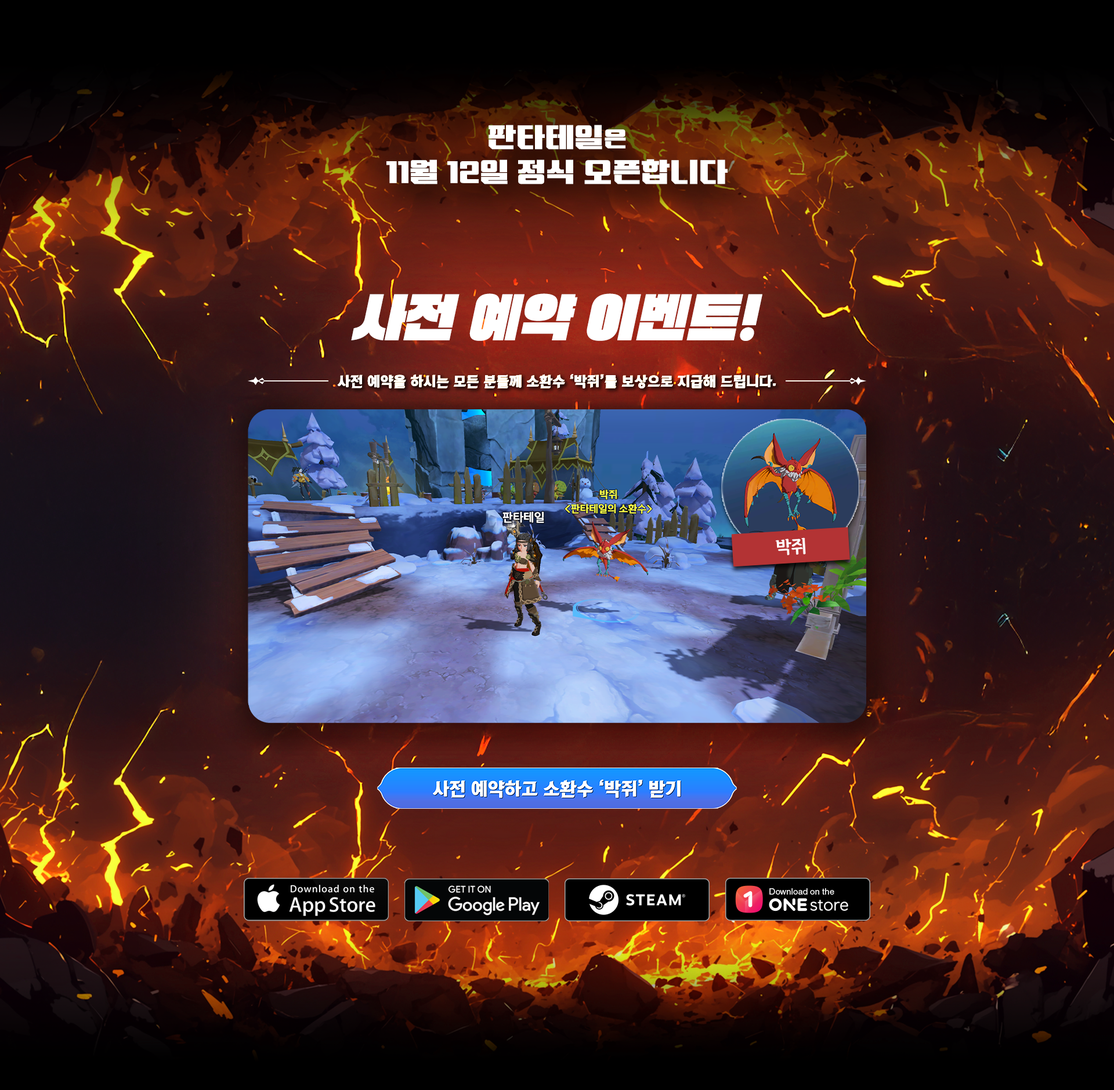
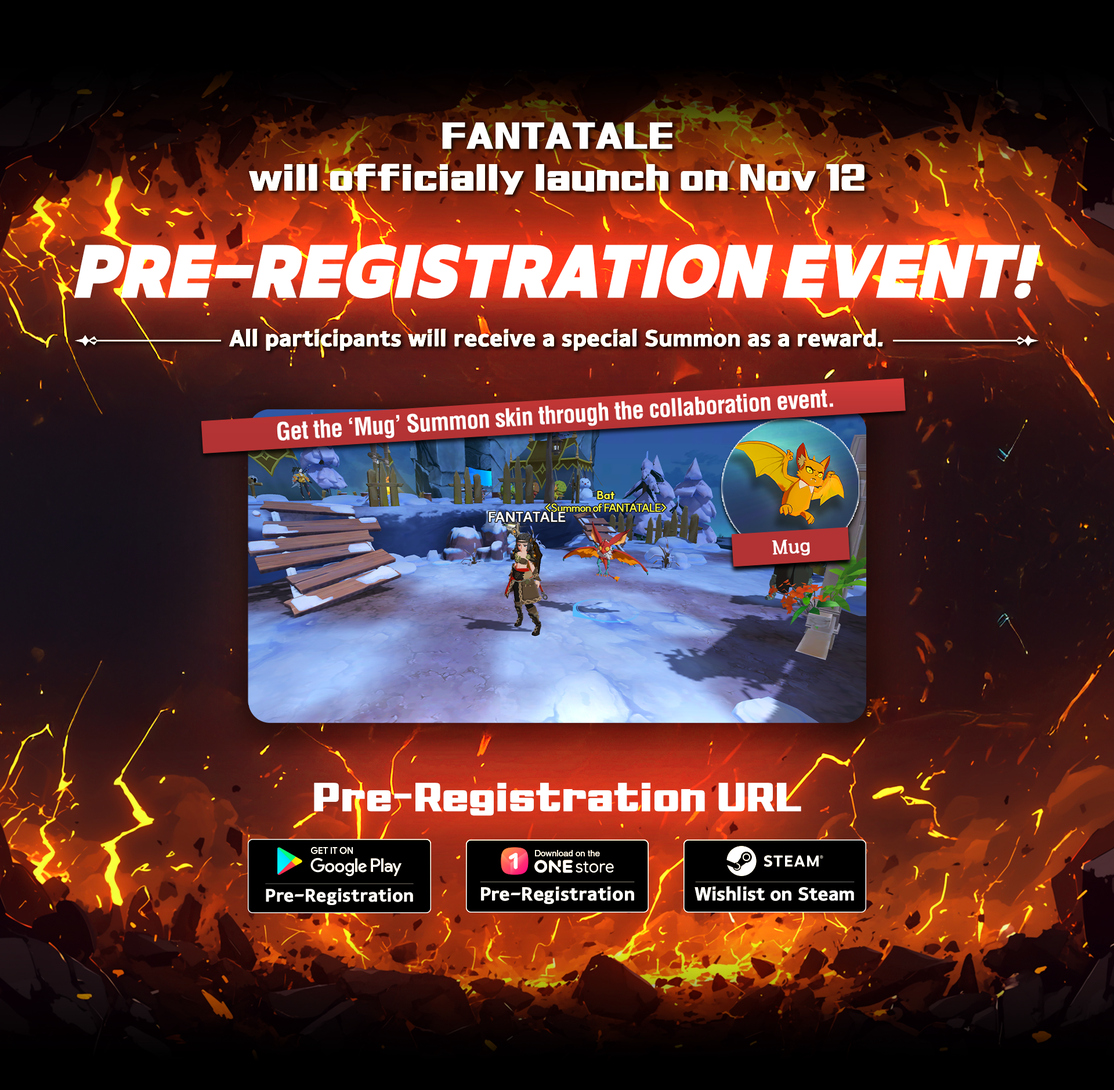
Add files via upload

Changed region(s): [[0.0, 0.0926, 1.0, 0.5245], [0.2188, 0.617, 0.7812, 0.8638], [0.4375, 0.4319, 0.5938, 0.4936]]

diff --git a/index.html b/index.html
@@ -3,7 +3,7 @@
 <head>
     <meta charset="UTF-8">
     <meta name="viewport" content="width=device-width, initial-scale=1.0">
-    <title>판타테일 - 그랜드 오픈</title>
+    <title>Fantatale Pre-Registration</title>
     <link rel="stylesheet" href="index.css">
 </head>
 <body>
@@ -21,11 +21,11 @@
             <nav class="header-nav pc-nav">
                 <a href="#home">HOME</a>
                 <span class="nav-divider">|</span>
-                <a href="#reservation">사전 등록</a>
+                <a href="#reservation">Pre-Registration</a>
                 <span class="nav-divider">|</span>
                 <a href="#event" class="event-link">Event <span class="star">★</span></a>
                 <span class="nav-divider">|</span>
-                <a href="#game-intro">게임 소개</a>
+                <a href="#game-intro">Game Intro</a>
                 <span class="nav-divider">|</span>
             </nav>
 
@@ -45,16 +45,16 @@
             <span></span>
         </button>
         <a href="#home">HOME</a>
-        <a href="#reservation">사전 예약</a>
+        <a href="#reservation">Pre-Registration</a>
         <a href="#event" class="event-link">Event <span class="star">★</span></a>
-        <a href="#game-intro">게임 소개</a>
+        <a href="#game-intro">Game Intro</a>
     </nav>
 
     <!-- 상단 섹션 1 - HOME -->
     <section class="image-section top-section-1" id="home">
         <img src="images/ver2/top.png" alt="상단 이미지 1">
         <div class="store-buttons">
-            <a href="https://play.google.com/store/apps/details?id=com.teenystudio.fantatale" target="_blank" rel="noopener noreferrer" class="store-btn apple-btn" aria-label="애플 앱스토어"></a>
+            <a href="#" target="_blank" rel="noopener noreferrer" class="store-btn apple-btn" aria-label="애플 앱스토어"></a>
             <a href="https://play.google.com/store/apps/details?id=com.teenystudio.fantatale" target="_blank" rel="noopener noreferrer" class="store-btn android-btn" aria-label="안드로이드 플레이스토어"></a>
             <a href="https://store.steampowered.com/app/3301040" target="_blank" rel="noopener noreferrer" class="store-btn steam-btn" aria-label="스팀 스토어"></a>
             <a href="https://onesto.re/0001002108" target="_blank" rel="noopener noreferrer" class="store-btn onestore-btn" aria-label="원스토어"></a>
@@ -70,7 +70,7 @@
     <section class="image-section main-section-1" id="event">
         <img src="images/ver2/main.png" alt="메인 이미지 1">
         <div class="store-buttons">
-            <a href="https://play.google.com/store/apps/details?id=com.teenystudio.fantatale" target="_blank" rel="noopener noreferrer" class="store-btn apple-btn" aria-label="애플 앱스토어"></a>
+            <a href="#" target="_blank" rel="noopener noreferrer" class="store-btn apple-btn" aria-label="애플 앱스토어"></a>
             <a href="https://play.google.com/store/apps/details?id=com.teenystudio.fantatale" target="_blank" rel="noopener noreferrer" class="store-btn android-btn" aria-label="안드로이드 플레이스토어"></a>
             <a href="https://store.steampowered.com/app/3301040" target="_blank" rel="noopener noreferrer" class="store-btn steam-btn" aria-label="스팀 스토어"></a>
             <a href="https://onesto.re/0001002108" target="_blank" rel="noopener noreferrer" class="store-btn onestore-btn" aria-label="원스토어"></a>
@@ -86,7 +86,6 @@
     <footer class="footer">
         <div class="footer-container">
             <div class="footer-text-line1">Copyright (c) 2025. Teeny Studio Inc. All Rights Reserved</div>
-            <div class="footer-text-line2">original comics from WEBTOON™ ©Korita . GREEN KYRIN</div>
         </div>
     </footer>
 

diff --git a/index.css b/index.css
@@ -396,10 +396,9 @@ section + section {
 /* HOME 섹션 (상단) 스토어 버튼 스타일 */
 .top-section-1 .store-buttons {
     bottom: 8%;
-    left: auto;
-    right: 23%;
-    transform: none;
-    gap: 145px;
+    left: 50%;
+    transform: translateX(-50%);
+    gap: 120px; /* 버튼 간격을 균등하게 조절 */
 }
 
 .top-section-1 .store-btn {
